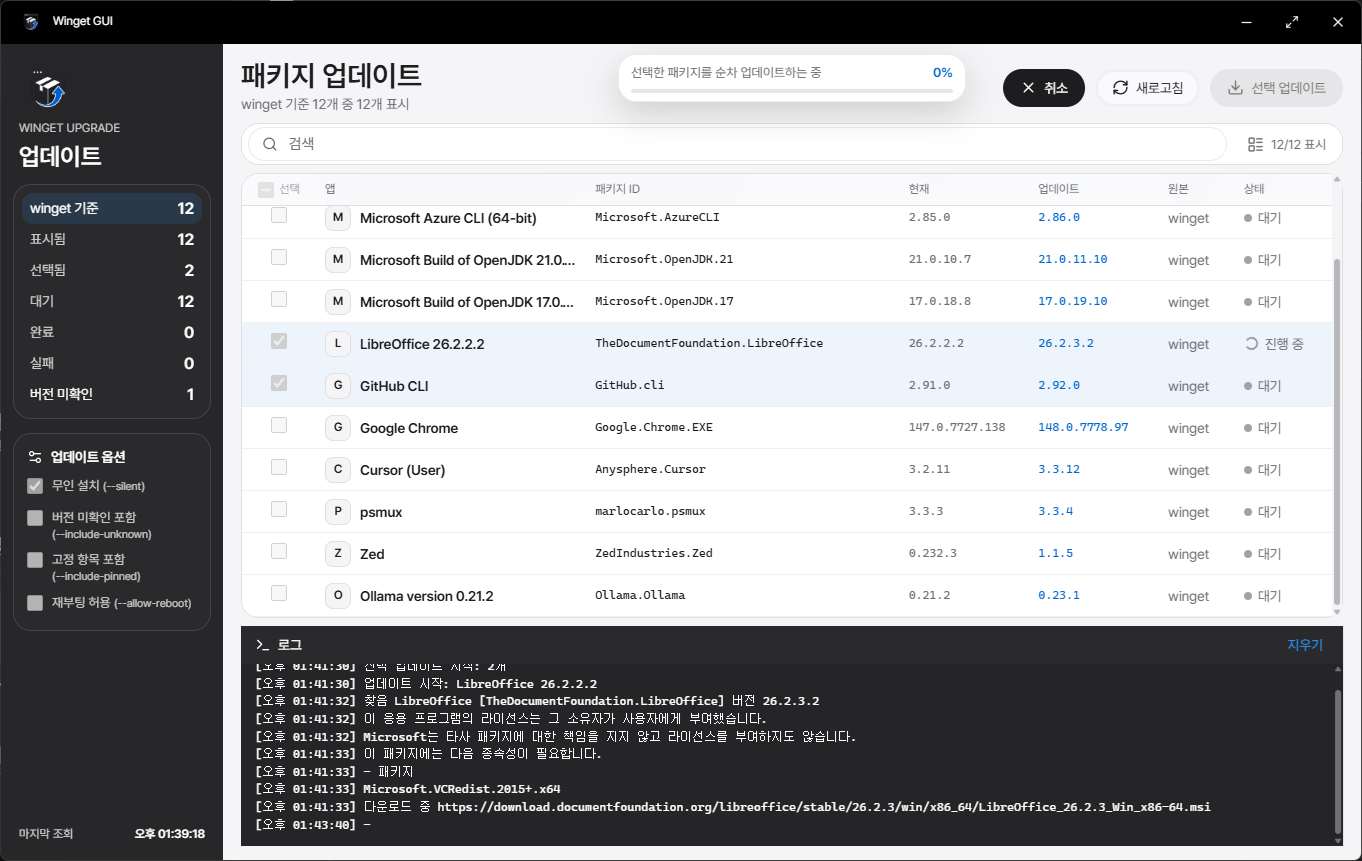
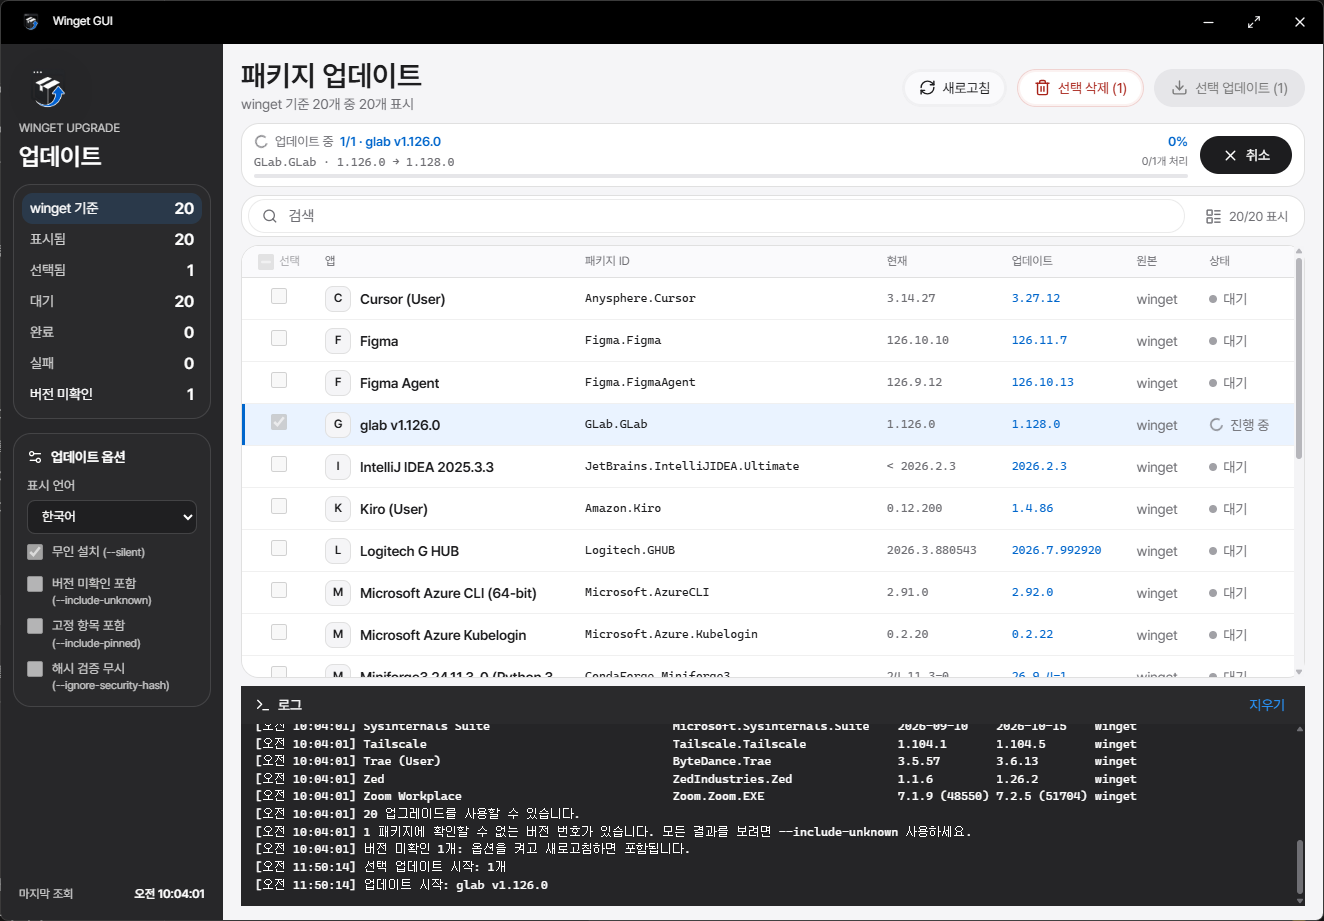
docs: README 업데이트 화면과 진행 설명 갱신 (#35)
- README 화면 예시를 최신 업데이트 캡처로 교체
- 현재 패키지·버전 변경·전체 진행률 안내 추가

diff --git a/README.md b/README.md
@@ -2,9 +2,11 @@
 
 An Electron desktop app that puts a GUI on top of Windows `winget`, so you can pick exactly which packages to update instead of upgrading everything at once.
 
-![Winget GUI 패키지 목록 화면](docs/images/winget-gui-package-list.png)
-
 ![Winget GUI 업데이트 진행 화면](docs/images/winget-gui-update-progress.png)
+
+The update banner shows the current package, version change, and overall queue
+progress. The cancel button and raw `winget` log stay visible while an update is
+running.
 
 ## Features
 
